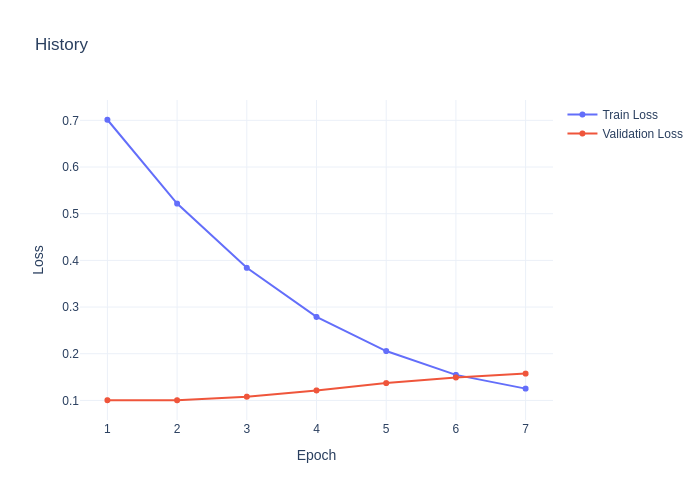
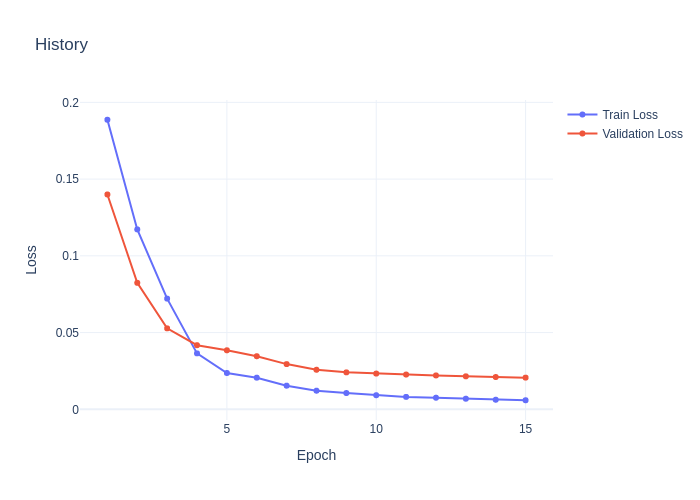
feat(cure.model) - architecture improve and custom loss added

diff --git a/core/model.py b/core/model.py
@@ -21,8 +21,6 @@ class AutonomusForecastModelArchitecture:
     Key design characteristics
     --------------------------
     - Temporal feature extraction using Conv1D layers
-    - Dilated convolutions to expand temporal receptive field without
-    increasing parameter count
     - GELU nonlinearities for smooth gradient propagation
     - Layer normalization for training stability
     - Dense projection head for multi-step forecasting
@@ -110,6 +108,13 @@ class AutonomusForecastModelArchitecture:
         os.environ["CUDA_VISIBLE_DEVICES"] = "-1"
         tf.config.set_visible_devices([], "GPU")
 
+    @staticmethod
+    def _directional_penatly_mse(y_true, y_pred, sample_weight=None):
+        se = tf.square(y_true - y_pred)
+        directional_penalty = tf.keras.activations.relu(-y_true * y_pred)
+        loss = se + 0.5 * directional_penalty
+        return tf.reduce_mean(loss)
+
     def _build_model(self) -> tf.keras.models.Model:
         inp = tf.keras.layers.Input(
             shape=(
@@ -120,18 +125,16 @@ class AutonomusForecastModelArchitecture:
         )
 
         x = tf.keras.layers.Conv1D(
-            filters=12,
-            kernel_size=3,
-            padding="same",
-            activation="gelu",
-            dilation_rate=2,
+            filters=12, kernel_size=5, padding="same", activation="gelu"
         )(inp)
         x = tf.keras.layers.Conv1D(
-            filters=6, kernel_size=3, padding="same", activation="gelu", dilation_rate=1
+            filters=6, kernel_size=5, padding="same", activation="gelu"
+        )(x)
+        x = tf.keras.layers.Conv1D(
+            filters=3, kernel_size=5, padding="same", activation="gelu"
         )(x)
         x = tf.keras.layers.LayerNormalization()(x)
         x = tf.keras.layers.GlobalAveragePooling1D()(x)
-        x = tf.keras.layers.Dense(10, activation="leaky_relu")(x)
         x = tf.keras.layers.Dropout(0.2)(x)
 
         out = tf.keras.layers.Dense(
@@ -143,7 +146,11 @@ class AutonomusForecastModelArchitecture:
         return tf.keras.models.Model(inputs=inp, outputs=out, name="forecast_model")
 
     def _compile_model(self):
-        self.model.compile(optimizer="adam", loss="mse")
+        self.model.compile(
+            optimizer="adam",
+            loss=AutonomusForecastModelArchitecture._directional_penatly_mse,
+            metrics=["mse"],
+        )
 
     def summary(self):
         return self.model.summary()
@@ -166,7 +173,12 @@ class AutonomusForecastModelArchitecture:
 
     @classmethod
     def load(cls, path: str) -> "AutonomusForecastModelArchitecture":
-        model = tf.keras.models.load_model(path)
+        model = tf.keras.models.load_model(
+            path,
+            custom_objects={
+                "loss": AutonomusForecastModelArchitecture._directional_penatly_mse
+            },
+        )
 
         obj = cls(
             seed=0,

diff --git a/forecast-model-training-pipeline.py b/forecast-model-training-pipeline.py
@@ -71,7 +71,7 @@ def main() -> None:
     logger.info("Starting model training")
 
     history = model.fit(
-        x=x, y=y, epochs=30, batch_size=300, validation_split=0.35, shuffle=False
+        x=x, y=y, epochs=15, batch_size=300, validation_split=0.35, shuffle=False
     )
 
     for epoch in range(len(history.history["loss"])):

diff --git a/prepare-training-data-pipeline.py b/prepare-training-data-pipeline.py
@@ -23,7 +23,7 @@ if __name__ == "__main__":
     x_train, y_train = [], []
     for ssd in y.ssd.unique():
         temp_x = (
-            x.loc[x.ssd < ssd]
+            x.loc[x.ssd <= ssd]
             .reset_index(drop=True)
             .iloc[-10:]
             .drop(columns=["ssd"])
